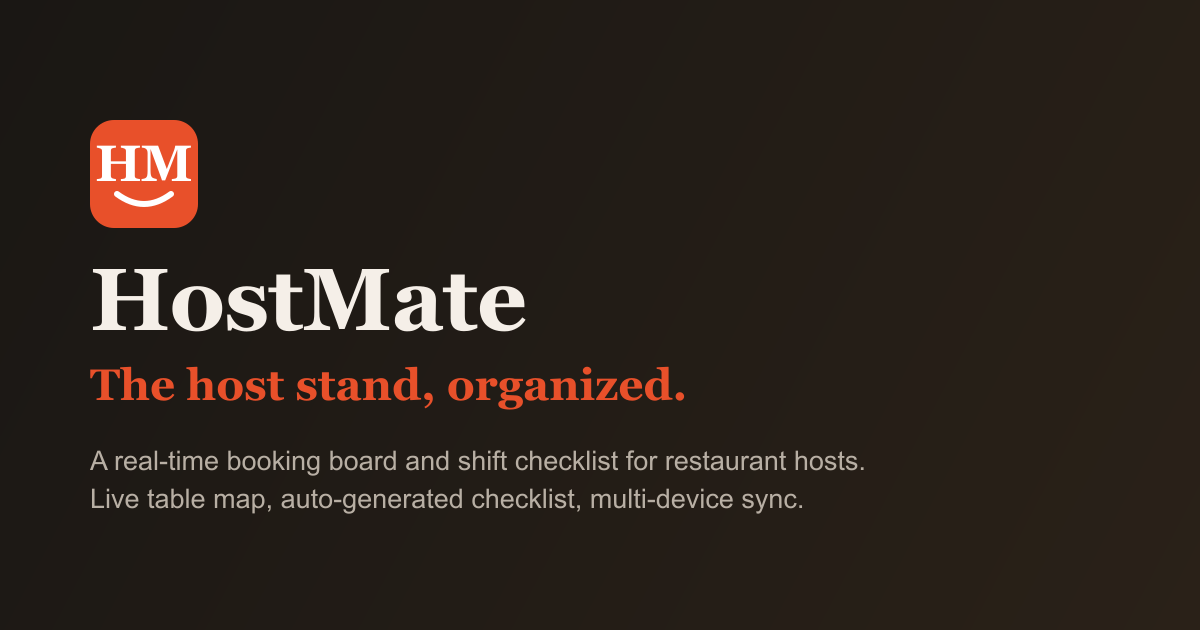
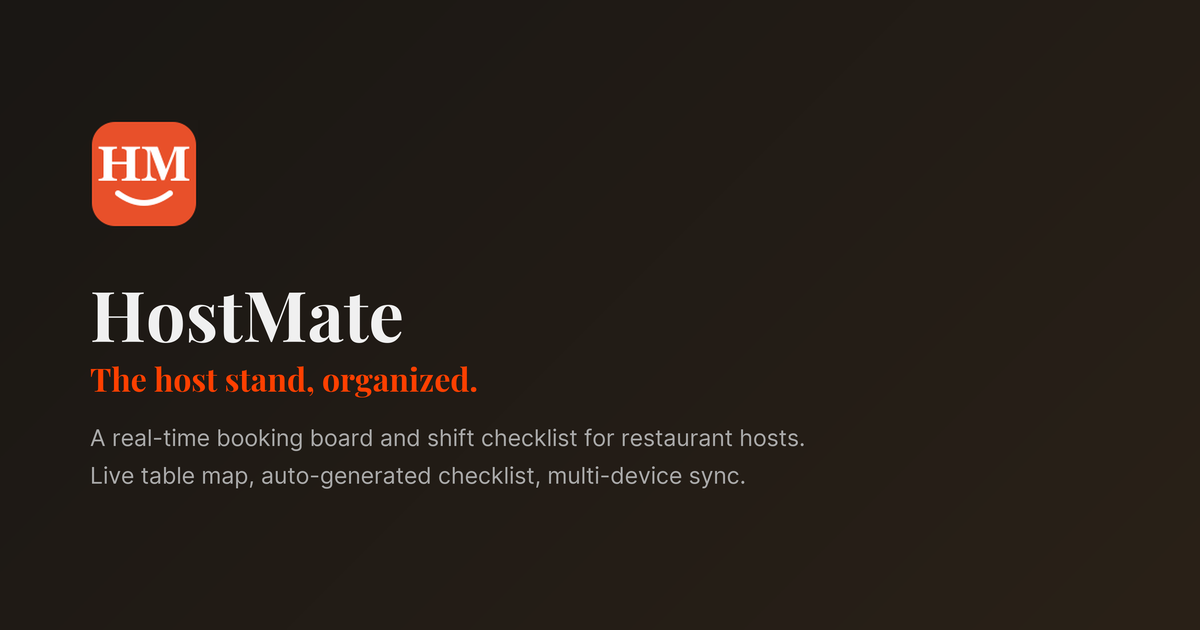
Add Cue og-image and legal pages; rebalance accent colors
Cue gets an og-image (Cu monogram badge with a music-note accent) and
privacy/terms/refund-policy pages matching HostMate's structure, adapted
for Cue's actual data (Spotify OAuth tokens, PIN login, playlist/crowd
data instead of guest/booking data). Regenerated HostMate's og-image
from the same background generator so both share an identical smooth
gradient. Cadence's accent is now #008040, Cue's is #008000.

Changed region(s): [[0.0617, 0.573, 0.7092, 0.8143], [0.0617, 0.4222, 0.4317, 0.5429], [0.0617, 0.181, 0.1542, 0.3619]]

diff --git a/cue/terms.html b/cue/terms.html
@@ -1,0 +1,75 @@
+<!doctype html>
+<html lang="en">
+  <head>
+    <meta charset="UTF-8" />
+    <meta name="viewport" content="width=device-width, initial-scale=1.0" />
+    <link rel="icon" type="image/svg+xml" href="/favicon.svg" />
+    <link href="https://fonts.googleapis.com/css2?family=Playfair+Display:wght@700;900&family=Inter:wght@400;500;600;700&display=swap" rel="stylesheet" />
+    <link rel="stylesheet" href="/legal.css" />
+    <link rel="stylesheet" href="/cue/theme.css" />
+    <title>Terms of Service — Cue</title>
+  </head>
+  <body>
+    <div class="legal-wrap">
+      <nav class="legal-nav">
+        <a href="https://cue.cadenceops.com.au/">&larr; Back to app</a>
+        <a href="/cue/privacy">Privacy Policy</a>
+        <a href="/cue/refund-policy">Refund Policy</a>
+      </nav>
+
+      <h1>Terms of Service</h1>
+      <p class="updated">Effective: 26 August 2026</p>
+
+      <p>These Terms of Service ("Terms") govern access to and use of Cue (the "Service"), operated by Marcus Barta ("we", "us", "our"). By creating a venue account or otherwise using the Service, you ("you", "your", the venue operator) agree to these Terms. If you do not agree, do not use the Service.</p>
+
+      <h2>1. The Service</h2>
+      <p>Cue is a web-based playlist management tool for hospitality venues that connects to a venue's Spotify account and switches playback automatically based on time slot and crowd level, provided on a "trial" (free, limited-feature) or "full" (paid) plan. Features available to your venue depend on the plan assigned to your account.</p>
+
+      <h2>2. Spotify account required</h2>
+      <p>Using the Service's playback features requires a Spotify account and, depending on the feature, a Spotify Premium subscription — these are provided directly by Spotify and are not part of the Service. Spotify's own terms of service govern your use of Spotify. We are not responsible for the availability, functionality, or policies of Spotify's platform.</p>
+
+      <h2>3. Accounts and access</h2>
+      <p>Access to a venue's Service instance is controlled by a PIN you set and are responsible for keeping confidential. You are responsible for all activity that occurs under your venue's login, and for restricting access to authorised staff. Notify us promptly if you believe your PIN has been compromised.</p>
+
+      <h2>4. Acceptable use</h2>
+      <p>You agree not to: use the Service for any unlawful purpose; attempt to gain unauthorised access to another venue's data or to the Service's infrastructure; interfere with or disrupt the Service; or use the Service in a way that breaches Spotify's own terms of service or developer policies.</p>
+
+      <h2>5. Your data</h2>
+      <p>You retain ownership of the playlist and venue configuration data you enter into the Service ("Your Data"). You grant us a licence to host, process, and display Your Data solely to provide the Service to you. See our <a href="/cue/privacy">Privacy Policy</a> for how we handle personal information, including the Spotify connection you authorise on behalf of your venue.</p>
+
+      <h2>6. Plans, upgrades and fees</h2>
+      <p>Trial accounts are provided free of charge, with a limited feature set, and may be changed or discontinued at any time. Paid ("full") plan pricing, invoicing, and payment terms are agreed with you directly and are not processed automatically within the Service. See our <a href="/cue/refund-policy">Refund Policy</a> for cancellation and refund terms.</p>
+
+      <h2>7. Service availability</h2>
+      <p>We aim to keep the Service available and reliable but do not guarantee uninterrupted or error-free operation. The Service may be unavailable from time to time for maintenance, updates, or reasons outside our control (including outages of third-party infrastructure providers we rely on, such as our hosting and database providers, or Spotify's own API and service availability).</p>
+
+      <h2>8. Disclaimer of warranties</h2>
+      <p>To the maximum extent permitted by law, the Service is provided "as is" and "as available", without warranties of any kind, whether express, implied, or statutory, including implied warranties of merchantability, fitness for a particular purpose, and non-infringement. We do not warrant that the Service will meet your requirements, be uninterrupted, timely, secure, or error-free.</p>
+
+      <div class="callout">
+        <strong>Australian Consumer Law.</strong> Nothing in these Terms excludes, restricts, or modifies any consumer guarantee, right, or remedy conferred on you under the Australian Consumer Law or any other law that cannot lawfully be excluded, restricted, or modified. Where permitted, our liability for breach of a non-excludable guarantee is limited, at our option, to re-supply of the Service or the cost of re-supply.
+      </div>
+
+      <h2>9. Limitation of liability</h2>
+      <p>To the maximum extent permitted by law, and subject to Section 8 above, we exclude all liability for indirect, special, incidental, or consequential loss, or loss of profits, revenue, data, or goodwill, arising out of or in connection with the Service or these Terms, however caused, whether in contract, tort (including negligence), or otherwise.</p>
+      <p>To the maximum extent permitted by law, our total aggregate liability arising out of or in connection with the Service, whether in contract, tort, or otherwise, is limited to the amount you paid us for the Service in the 12 months preceding the event giving rise to the claim.</p>
+      <p>We are not liable for the availability, functionality, or conduct of Spotify's platform, or for changes Spotify makes to its API or policies that affect the Service.</p>
+
+      <h2>10. Termination</h2>
+      <p>You may stop using the Service at any time, including by disconnecting your Spotify account. We may suspend or terminate access to the Service, with or without notice, for breach of these Terms, non-payment of agreed fees, or conduct that risks harm to the Service or other venues.</p>
+
+      <h2>11. Changes to these Terms</h2>
+      <p>We may update these Terms from time to time. We will update the "Effective" date above when we do. Continued use of the Service after changes take effect constitutes acceptance of the revised Terms.</p>
+
+      <h2>12. Governing law</h2>
+      <p>These Terms are governed by the laws of the Australian Capital Territory, Australia, and each party submits to the non-exclusive jurisdiction of the courts of that territory.</p>
+
+      <h2>13. Contact</h2>
+      <p>Questions about these Terms can be sent to <a href="mailto:marcusbarta@icloud.com">marcusbarta@icloud.com</a>.</p>
+
+      <div class="legal-footer">
+        <p>See also: <a href="/cue/privacy">Privacy Policy</a> · <a href="/cue/refund-policy">Refund Policy</a></p>
+      </div>
+    </div>
+  </body>
+</html>

diff --git a/cue/privacy.html b/cue/privacy.html
@@ -1,0 +1,62 @@
+<!doctype html>
+<html lang="en">
+  <head>
+    <meta charset="UTF-8" />
+    <meta name="viewport" content="width=device-width, initial-scale=1.0" />
+    <link rel="icon" type="image/svg+xml" href="/favicon.svg" />
+    <link href="https://fonts.googleapis.com/css2?family=Playfair+Display:wght@700;900&family=Inter:wght@400;500;600;700&display=swap" rel="stylesheet" />
+    <link rel="stylesheet" href="/legal.css" />
+    <link rel="stylesheet" href="/cue/theme.css" />
+    <title>Privacy Policy — Cue</title>
+  </head>
+  <body>
+    <div class="legal-wrap">
+      <nav class="legal-nav">
+        <a href="https://cue.cadenceops.com.au/">&larr; Back to app</a>
+        <a href="/cue/terms">Terms of Service</a>
+        <a href="/cue/refund-policy">Refund Policy</a>
+      </nav>
+
+      <h1>Privacy Policy</h1>
+      <p class="updated">Effective: 26 August 2026</p>
+
+      <p>This Privacy Policy explains how Marcus Barta ("we", "us", "our"), operator of Cue (the "Service"), collects, uses, and handles personal information. It applies to venue operators and their staff who use the Service.</p>
+
+      <h2>1. Information we collect</h2>
+      <p>We collect:</p>
+      <ul>
+        <li><strong>Venue account information</strong> — venue name, login PIN, and configuration settings, including playlist tags (time-slot and crowd-level assignments).</li>
+        <li><strong>Spotify connection data</strong> — when a venue links its Spotify account, we store the OAuth access and refresh tokens needed to control playback and read playlist data on the venue's behalf. We do not receive or store the venue's Spotify password.</li>
+        <li><strong>Playback and crowd-level activity</strong> — which playlists and devices a venue selects, and the crowd-level state staff set, so the Service can automate and log playlist switching.</li>
+        <li><strong>Technical data</strong> — standard web server logs (IP address, browser type, timestamps) generated by our hosting infrastructure in the course of serving the Service.</li>
+      </ul>
+      <p>We do not currently use third-party analytics, advertising, or tracking scripts within the Service, beyond what is necessary to integrate with Spotify's API.</p>
+
+      <h2>2. Who provides this information</h2>
+      <p>Venue account information and PINs are provided by the venue operator. Spotify connection data is provided by Spotify, via the OAuth authorization the venue operator grants when linking their account.</p>
+
+      <h2>3. How we use information</h2>
+      <p>We use the information collected to: operate and provide the Service; authenticate venue logins; control and switch playback on the venue's connected Spotify account as configured; maintain the security and integrity of the Service; and communicate with venue operators about their account.</p>
+      <p>We do not sell personal information.</p>
+
+      <h2>4. Where information is stored</h2>
+      <p>The Service is hosted on Cloudflare Pages and Cloudflare Workers. Application data, including Spotify tokens, is stored in Supabase (a hosted PostgreSQL database provider). These providers may store data outside your country of residence. We rely on these providers' security measures and our own access controls (including PIN-based authentication and service-role API access) to protect stored data.</p>
+
+      <h2>5. Data retention</h2>
+      <p>We retain venue and playlist configuration data for as long as a venue account remains active, plus a reasonable period afterward in case the venue wishes to reactivate. Spotify tokens are retained only for as long as the venue's Spotify connection remains linked, and are deleted if the venue disconnects Spotify or the account is closed. You may request deletion of your venue's data at any time by contacting us (see Section 7).</p>
+
+      <h2>6. Sharing of information</h2>
+      <p>We do not share personal information with third parties except: with the infrastructure and API providers described in Section 4 and Spotify itself, to the extent needed to operate the Service; where required by law, regulation, or valid legal process; or with your consent.</p>
+
+      <h2>7. Your rights and contact</h2>
+      <p>Depending on your location, you may have rights to access, correct, or request deletion of personal information we hold about you. You can disconnect your venue's Spotify account at any time within the app, which revokes our access to it. For anything else, contact us at <a href="mailto:marcusbarta@icloud.com">marcusbarta@icloud.com</a>.</p>
+
+      <h2>8. Changes to this policy</h2>
+      <p>We may update this Privacy Policy from time to time. We will update the "Effective" date above when we do.</p>
+
+      <div class="legal-footer">
+        <p>See also: <a href="/cue/terms">Terms of Service</a> · <a href="/cue/refund-policy">Refund Policy</a></p>
+      </div>
+    </div>
+  </body>
+</html>

diff --git a/cue/refund-policy.html b/cue/refund-policy.html
@@ -1,0 +1,48 @@
+<!doctype html>
+<html lang="en">
+  <head>
+    <meta charset="UTF-8" />
+    <meta name="viewport" content="width=device-width, initial-scale=1.0" />
+    <link rel="icon" type="image/svg+xml" href="/favicon.svg" />
+    <link href="https://fonts.googleapis.com/css2?family=Playfair+Display:wght@700;900&family=Inter:wght@400;500;600;700&display=swap" rel="stylesheet" />
+    <link rel="stylesheet" href="/legal.css" />
+    <link rel="stylesheet" href="/cue/theme.css" />
+    <title>Refund Policy — Cue</title>
+  </head>
+  <body>
+    <div class="legal-wrap">
+      <nav class="legal-nav">
+        <a href="https://cue.cadenceops.com.au/">&larr; Back to app</a>
+        <a href="/cue/terms">Terms of Service</a>
+        <a href="/cue/privacy">Privacy Policy</a>
+      </nav>
+
+      <h1>Refund Policy</h1>
+      <p class="updated">Effective: 26 August 2026</p>
+
+      <h2>1. Trial plan</h2>
+      <p>Trial accounts are free of charge. No payment is taken, so no refund applies.</p>
+
+      <h2>2. Full plan</h2>
+      <p>Fees for the paid "full" plan are agreed with you directly and billed outside the app (invoice or other arrangement). Payments already made for a billing period are non-refundable. You may cancel at any time to stop future billing — cancellation takes effect at the end of the current paid period, and you retain full-plan access until then.</p>
+      <p>To cancel, contact us at the email below.</p>
+
+      <div class="callout">
+        <strong>Australian Consumer Law.</strong> This policy does not exclude, restrict, or modify any consumer guarantee, right, or remedy you have under the Australian Consumer Law that cannot lawfully be excluded — for example, where the Service fails to be provided with due care and skill, or is not reasonably fit for its intended purpose. If that occurs, contact us and we will work with you on a remedy, which may include a refund, credit, or fix, as appropriate under the law.
+      </div>
+
+      <h2>3. Spotify availability</h2>
+      <p>Cue's core functionality depends on Spotify's own platform and API. Outages, changes, or restrictions on Spotify's side that affect the Service are outside our control and are not, by themselves, treated as a billing error — see Section 4 below for how we handle genuine billing errors.</p>
+
+      <h2>4. Billing errors</h2>
+      <p>If you believe you were charged in error (e.g. duplicate charge, incorrect amount), contact us promptly and we will investigate and correct any error, including issuing a refund where appropriate.</p>
+
+      <h2>5. Contact</h2>
+      <p>For cancellations, billing questions, or refund requests, email <a href="mailto:marcusbarta@icloud.com">marcusbarta@icloud.com</a>.</p>
+
+      <div class="legal-footer">
+        <p>See also: <a href="/cue/terms">Terms of Service</a> · <a href="/cue/privacy">Privacy Policy</a></p>
+      </div>
+    </div>
+  </body>
+</html>

diff --git a/cue/index.html b/cue/index.html
@@ -12,10 +12,12 @@
     <meta property="og:type" content="website" />
     <meta property="og:title" content="Cue — Music that matches the room" />
     <meta property="og:description" content="A crowd-aware, Spotify-connected playlist system for venues. Tag playlists by time slot and crowd level, and Cue keeps the music in step with the room." />
+    <meta property="og:image" content="https://cadenceops.com.au/cue/og-image.png" />
     <meta property="og:url" content="https://cadenceops.com.au/cue" />
-    <meta name="twitter:card" content="summary" />
+    <meta name="twitter:card" content="summary_large_image" />
     <meta name="twitter:title" content="Cue — Music that matches the room" />
     <meta name="twitter:description" content="A crowd-aware, Spotify-connected playlist system for venues." />
+    <meta name="twitter:image" content="https://cadenceops.com.au/cue/og-image.png" />
     <script type="application/ld+json">
       {
         "@context": "https://schema.org",
@@ -156,6 +158,9 @@
       <div class="wrap">
         <span>© 2024–2026 Marcus Barta. All rights reserved.</span>
         <div class="footer-links">
+          <a href="/cue/terms">Terms</a>
+          <a href="/cue/privacy">Privacy</a>
+          <a href="/cue/refund-policy">Refunds</a>
           <a href="mailto:marcusbarta@icloud.com">Contact</a>
         </div>
       </div>

diff --git a/landing.css b/landing.css
@@ -5,9 +5,9 @@
   --border:    #e4dbd0;
   --text:      #7a6a5e;
   --text-h:    #1a1209;
-  --accent:    #008000;
-  --accent-dim: rgba(0, 128, 0, 0.10);
-  --accent-border: rgba(0, 128, 0, 0.30);
+  --accent:    #008040;
+  --accent-dim: rgba(0, 128, 64, 0.10);
+  --accent-border: rgba(0, 128, 64, 0.30);
 }
 @media (prefers-color-scheme: dark) {
   :root {

diff --git a/cue/theme.css b/cue/theme.css
@@ -1,5 +1,5 @@
 :root {
-  --accent: #00C000;
-  --accent-dim: rgba(0, 192, 0, 0.10);
-  --accent-border: rgba(0, 192, 0, 0.30);
+  --accent: #008000;
+  --accent-dim: rgba(0, 128, 0, 0.10);
+  --accent-border: rgba(0, 128, 0, 0.30);
 }
